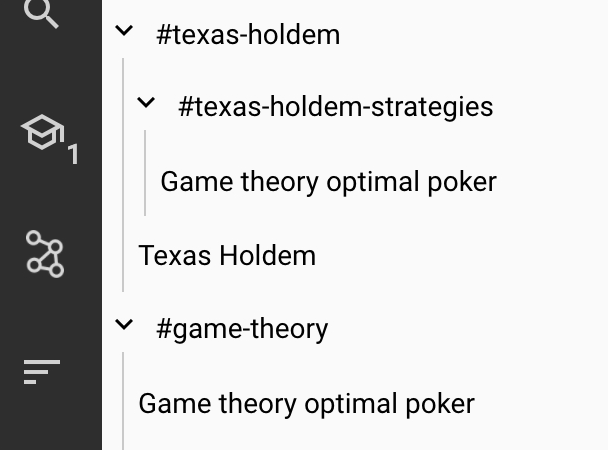
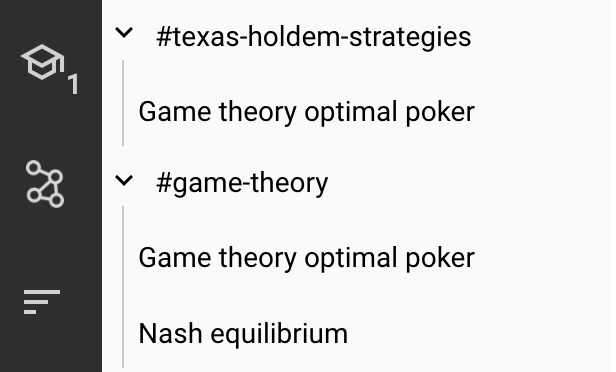
Small improvements: - documentation updates - don't get stuck at the spinner when in incognito - improvements to the demo/test mode

diff --git a/src/app/frontpage/frontpage.component.html b/src/app/frontpage/frontpage.component.html
@@ -93,16 +93,14 @@
 
   <a href="/test">Demo (read-only)</a><br>
 
-  <a (click)="toGd()" class="link">Try it (Google Drive authorization required)</a><br>
+  <a (click)="toGd()" class="link">Try the alpha version (Google Drive authorization required)</a><br>
 
   <div id="text">
     <p>
-      Connected Notes is a note taking tool that aims to make taking notes engaging and effective. It encourages
-      usage of the <a href="https://zettelkasten.de/posts/overview/">Zettelkasten</a> method and spaced repetition
-      to deliver the best learning results.
+      Connected Notes is a tool for non-hierarchical notes and flashcards. It encourages
+      usage of the <a href="https://zettelkasten.de/posts/overview/">Zettelkasten</a> method and spaced repetition,
+      and is open source and free to use.
     </p>
-
-    <p>It's open source and free to use.</p>
 
     <p>
       Connected Notes is in alpha, so expect roughness, bugs and some missing features.
@@ -165,31 +163,35 @@
       Creating a note is as easy as clicking on the 'create note' icon (or pressing ctrl + k) and entering the name
       of the note.
       You don't need to choose which folder the note is added to, since folders don't exist - instead, organizing notes
-      is based on tags (see next section). This greatly reduces the friction of creating notes (see
-      <a href="https://zettelkasten.de/posts/no-categories/">for more</a>).
+      is based on tags (see next section). This greatly reduces the friction of creating notes and avoids having
+      to think in strict categories and hierarchies
+      (<a href="https://zettelkasten.de/posts/no-categories/">more</a>).
     </p>
 
     <h3>Tagging notes</h3>
 
     <p>
-      Using tags is an integral part of Connected Notes, and probably the largest difference when compared to other
-      note taking apps.
-      To add a tag, simply add a hashtag anywhere to the note, like
+      Using tags is an integral part of Connected Notes. Since tags essentially replace folders,
+      learning to use them is worthwhile.
+      To add a tag, simply add a Twitter style hashtag anywhere to the note, like
       #this. You will then see the hashtag appear in the left side menu, and if you click on it,
-      you will see all notes that contain this tag:
+      you will see all the notes that contain the tag:
     </p>
     <div class="image-container"><img class="image" src="./assets/img/tag-and-notes.jpg"></div>
 
     <p>
       If a note
-      doesn't have any hashtags, it's added to the special 'untagged' tag. All notes appear under 'all'.
+      doesn't have any hashtags, it appears under the special 'untagged' tag. Similarly, all notes appear under 'all'.
+      Also, since notes can contain multiple tags, they can also appear under multiple tags:
     </p>
+
+    <div class="image-container"><img class="image" src="./assets/img/multiple-tags-per-note.jpg"></div>
 
     <p>
       Tags can be nested under each other, creating a 'tag/subtag' structure.
       This might be sensible if you have a tag which is clearly a part of some
-      other tag. For example, if you have tags #car-brands and #toyota, you might not want to have #toyota appear
-      on the top level.
+      other tag. For example, if you have tags #texas-holdem (a popular card game) and #texas-holdem-strategies,
+      you might not want to have #texas-holdem-strategies appear on the top level.
     </p>
 
     <p>
@@ -199,17 +201,12 @@
     <div class="image-container"><img class="image" src="./assets/img/drag-and-drop-tag.gif"></div>
 
     <p>
-      Finally, tags can appear under many tags. Let's say you have tags #car-brands and #electric-cars. In a traditional
+      Finally, tags can appear under multiple tags. Let's say you have tags #car-brands and #electric-cars.
+      In a traditional
       folder structure you'd have to make a choice where to place #tesla, but in Connected Notes #tesla could
       appear under both tags. To achieve this, click on the three dots menu next to #tesla and choose
       the parent tags.
     </p>
-    <p>
-      Or, for example, in this image the note 'Game theory optimal poker' appears both under
-      '#texas-holdem-strategies' and '#game-theory':
-    </p>
-
-    <div class="image-container"><img class="image" src="./assets/img/multiple-tags-per-note.jpg"></div>
 
     <p>
       In comparison, traditional folders are essentially
@@ -237,24 +234,14 @@
     <p>To study your flashcards, click on the 'study' icon in the left menu. By default, you'll be shown all due
     flashcards you have created.</p>
 
-    <p>Currently there's no interoperability with Anki but the plan is to make the flashcard experience more
-      Anki-like (just with markdown), allowing exporting/importing.</p>
+    <p>Currently there's no interoperability with Anki but in the future I'd like to have a more Anki-like flashcard
+      experience and allow exporting/importing.</p>
 
     <h2>Running your own instance</h2>
 
     <p>
-      More details on how to set up your own instance of Connected Notes can be found at the projects
-      <a href="https://github.com/tsiki/connectednotes">GitHub page</a>.
-    </p>
-
-    <p>
-      This section details how to go about running your own instance of Connected Notes which uses Google Drive as the
-      backend.
-    </p>
-
-    <p>
-      First, you'll need to create an API key for Google Drive by following the instructions
-      <a href="https://developers.google.com/drive/api/v3/enable-drive-api">here</a>.
+      More details on how to set up your own instance of Connected Notes will be at the
+      <a href="https://github.com/tsiki/connectednotes">GitHub page</a> once the project exits beta.
     </p>
 
     <h3>Caveat</h3>

diff --git a/src/app/zettelkasten/zettelkasten.component.ts b/src/app/zettelkasten/zettelkasten.component.ts
@@ -14,6 +14,7 @@ import {FilelistComponent} from '../filelist/filelist.component';
 import {ValidateImmediatelyMatcher} from '../already-existing-note.directive';
 import {SubviewManagerService, ViewType} from '../subview-manager.service';
 import {FlashcardService} from '../flashcard.service';
+import {ConfirmationDialogComponent, ConfirmDialogData} from '../confirmation-dialog/confirmation-dialog.component';
 
 
 export enum SortDirection {
@@ -80,7 +81,18 @@ export class ZettelkastenComponent implements OnInit {
 
     if (this.router.url.split('?')[0] === '/gd') {
       this.storage.initialize(Backend.GOOGLE_DRIVE);
-    } else if (this.router.url.split('?')[0] === '/test') {
+    } else if (['/test', '/demo'].includes(this.router.url.split('?')[0])) {
+      this.dialog.open(ConfirmationDialogComponent, {
+        width: '600px',
+        data: {
+          title: 'Demo',
+          message:
+              "This is a (mostly) read-only demo of Connected Notes. It's meant for testing the overall flow and "
+              + 'structure. Some changes are working (eg. restructuring notes) and some not (eg. creating notes), '
+              + 'but all changes will be lost when the page is refreshed.',
+          confirmButtonText: 'ok',
+        } as ConfirmDialogData,
+      });
       this.storage.initialize(Backend.TEST_DATA);
     } else {
       this.storage.initialize(Backend.FIREBASE);

diff --git a/src/app/backends/google-drive.service.ts b/src/app/backends/google-drive.service.ts
@@ -142,18 +142,15 @@ export class GoogleDriveService implements StorageBackend {
     await this.signIn();
   }
 
-  private isSignedIn(): Promise<boolean> {
-    return new Promise((resolve, reject) => {
-      gapi.load('client:auth2', async () => {
-        await gapi.client.init({
-          apiKey: environment.googleDrive.gdriveApiKey,
-          clientId: environment.googleDrive.gdriveClientKey,
-          discoveryDocs: ['https://www.googleapis.com/discovery/v1/apis/drive/v3/rest'],
-          scope: 'https://www.googleapis.com/auth/drive.file https://www.googleapis.com/auth/drive.install'
-        });
-        resolve(gapi.auth2.getAuthInstance().isSignedIn.get());
-      });
+  private async isSignedIn(): Promise<boolean> {
+    await new Promise(resolve => gapi.load('client:auth2', () => resolve()));
+    await gapi.client.init({
+      apiKey: environment.googleDrive.gdriveApiKey,
+      clientId: environment.googleDrive.gdriveClientKey,
+      discoveryDocs: ['https://www.googleapis.com/discovery/v1/apis/drive/v3/rest'],
+      scope: 'https://www.googleapis.com/auth/drive.file https://www.googleapis.com/auth/drive.install'
     });
+    return gapi.auth2.getAuthInstance().isSignedIn.get();
   }
 
   private async signIn() {

diff --git a/src/app/study/study.component.ts b/src/app/study/study.component.ts
@@ -15,6 +15,7 @@ import * as marked from 'marked';
 import {DomSanitizer} from '@angular/platform-browser';
 import {FlashcardDialogComponent, FlashcardDialogData} from '../create-flashcard-dialog/flashcard-dialog.component';
 import {MatDialog} from '@angular/material/dialog';
+import {ConfirmationDialogComponent, ConfirmDialogData} from '../confirmation-dialog/confirmation-dialog.component';
 
 export const DUE_FCS_QUEUE_NAME = 'due flashcards';
 export const ALL_FCS_QUEUE_NAME = 'all flashcards';
@@ -275,8 +276,17 @@ export class StudyComponent implements AfterViewInit, OnDestroy {
     this.subviewManager.closeView('flashcards');
   }
 
-  deleteFlashcard(id: string) {
-    const result = window.confirm(`Delete this flashcard?`);
+  async deleteFlashcard(id: string) {
+    const dialogRef = this.dialog.open(ConfirmationDialogComponent, {
+      width: '600px',
+      data: {
+        title: 'Confirmation',
+        message: 'Delete this flashcard?',
+        confirmButtonText: 'Delete',
+        rejectButtonText: 'Cancel',
+      } as ConfirmDialogData,
+    });
+    const result  = await dialogRef.afterClosed().toPromise();
     if (result) {
       this.flashcardService.deleteFlashcard(id);
     }

diff --git a/src/app/backends/test-data.service.ts b/src/app/backends/test-data.service.ts
@@ -29,11 +29,29 @@ export class TestDataService implements StorageBackend {
   }
 
   createFlashcard(fc: Flashcard): Promise<FileMetadata> {
-    return Promise.resolve(undefined);
+    this.flashcards.value.push(fc);
+    this.flashcards.next(this.flashcards.value);
+    const curTime = new Date().getTime();
+    return Promise.resolve({
+      id: Math.random().toString(),
+      title: 'fc',
+      lastChangedEpochMillis: curTime,
+      createdEpochMillis: curTime
+    });
   }
 
   createNote(title: string): Promise<FileMetadata> {
-    return Promise.resolve(undefined);
+    const curTime = new Date().getTime();
+    const id = Math.random().toString();
+    const note = { id, title, content: '', lastChangedEpochMillis: curTime};
+    this.notes.value.push(note);
+    this.notes.next(this.notes.value);
+    return Promise.resolve({
+      id,
+      title,
+      lastChangedEpochMillis: curTime,
+      createdEpochMillis: curTime
+    });
   }
 
   deleteFile(fileId: string) {

diff --git a/src/app/frontpage/frontpage.component.ts b/src/app/frontpage/frontpage.component.ts
@@ -2,7 +2,6 @@ import {AfterViewInit, Component, ElementRef, Injector, OnDestroy, OnInit, ViewC
 import {Router} from '@angular/router';
 import {GoogleDriveService} from '../backends/google-drive.service';
 import {StorageBackend} from '../types';
-import {BackreferencesDialogComponent} from '../backreferences-dialog/backreferences-dialog.component';
 import {MatDialog} from '@angular/material/dialog';
 import {ConfirmationDialogComponent, ConfirmDialogData} from '../confirmation-dialog/confirmation-dialog.component';
 import {ANALYTICS_ENABLED_LOCAL_STORAGE_KEY} from '../constants';

diff --git a/src/app/confirmation-dialog/confirmation-dialog.component.ts b/src/app/confirmation-dialog/confirmation-dialog.component.ts
@@ -40,8 +40,8 @@ export class ConfirmationDialogComponent {
       public dialogRef: MatDialogRef<ConfirmationDialogComponent>) {
     this.title = data.title;
     this.message = data.message;
-    this.confirmButtonText = data.confirmButtonText || 'ok';
-    this.rejectButtonText = data.rejectButtonText || 'cancel';
+    this.confirmButtonText = data.confirmButtonText;
+    this.rejectButtonText = data.rejectButtonText;
   }
 
   confirm() {

diff --git a/src/app/backends/test-data.ts b/src/app/backends/test-data.ts
@@ -131,7 +131,7 @@ export const TEST_FLASHCARDS: Flashcard[] = [
         id: '1',
         createdEpochMillis: 0,
         lastChangedEpochMillis: 0,
-        tags: ['#zettelkasten', '#test'],
+        tags: ['#zettelkasten', '#some-another-tag'],
         side1: 'The two basic components of Zettelkasten are ...',
         side2: 'The two basic components of Zettelkasten are tagging and connecting notes',
         isTwoWay: false,

diff --git a/src/app/app-routing.module.ts b/src/app/app-routing.module.ts
@@ -8,6 +8,7 @@ const routes: Routes = [
   { path: 'zks/:userid', component: ZettelkastenComponent },
   { path: 'gd', component: ZettelkastenComponent },
   { path: 'test', component: ZettelkastenComponent },
+  { path: 'demo', component: ZettelkastenComponent },
 ];
 
 @NgModule({
